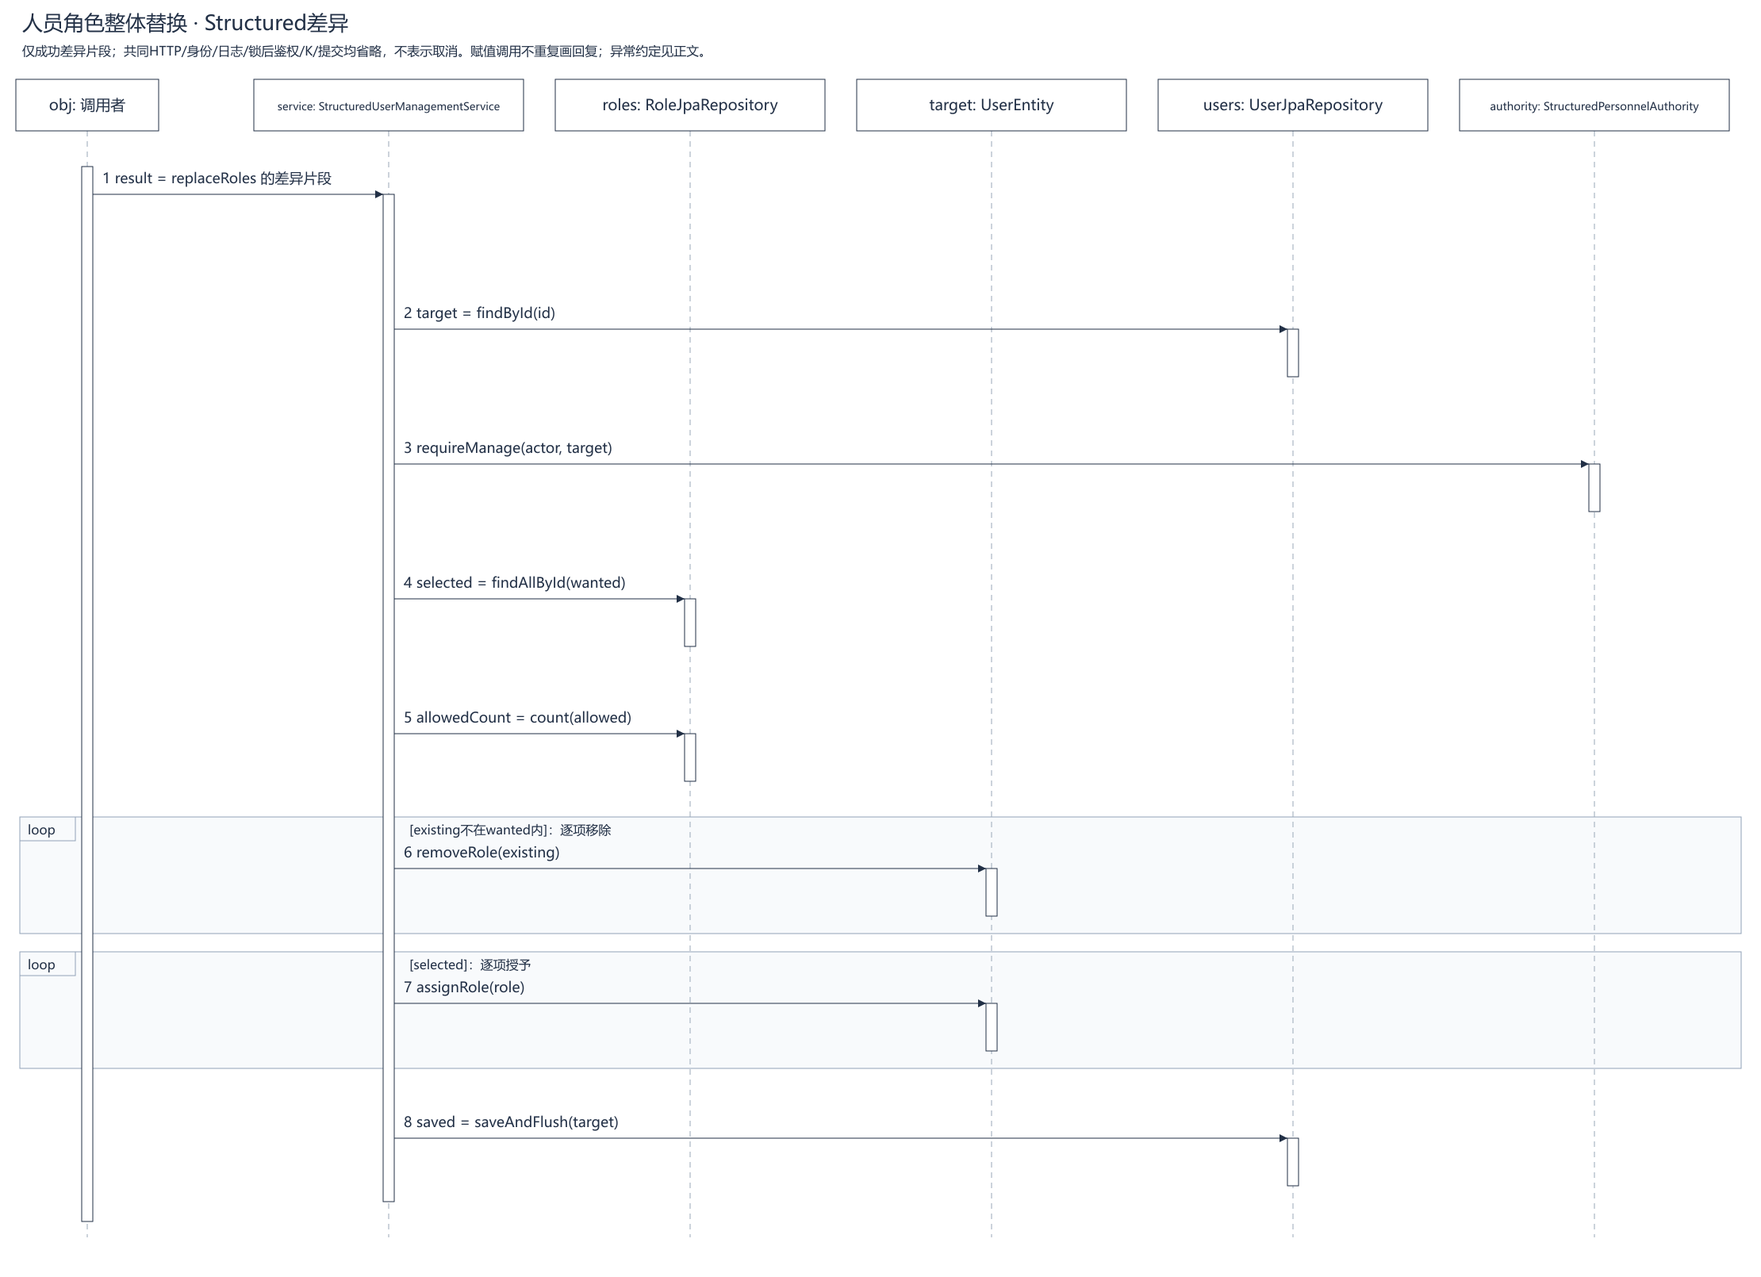
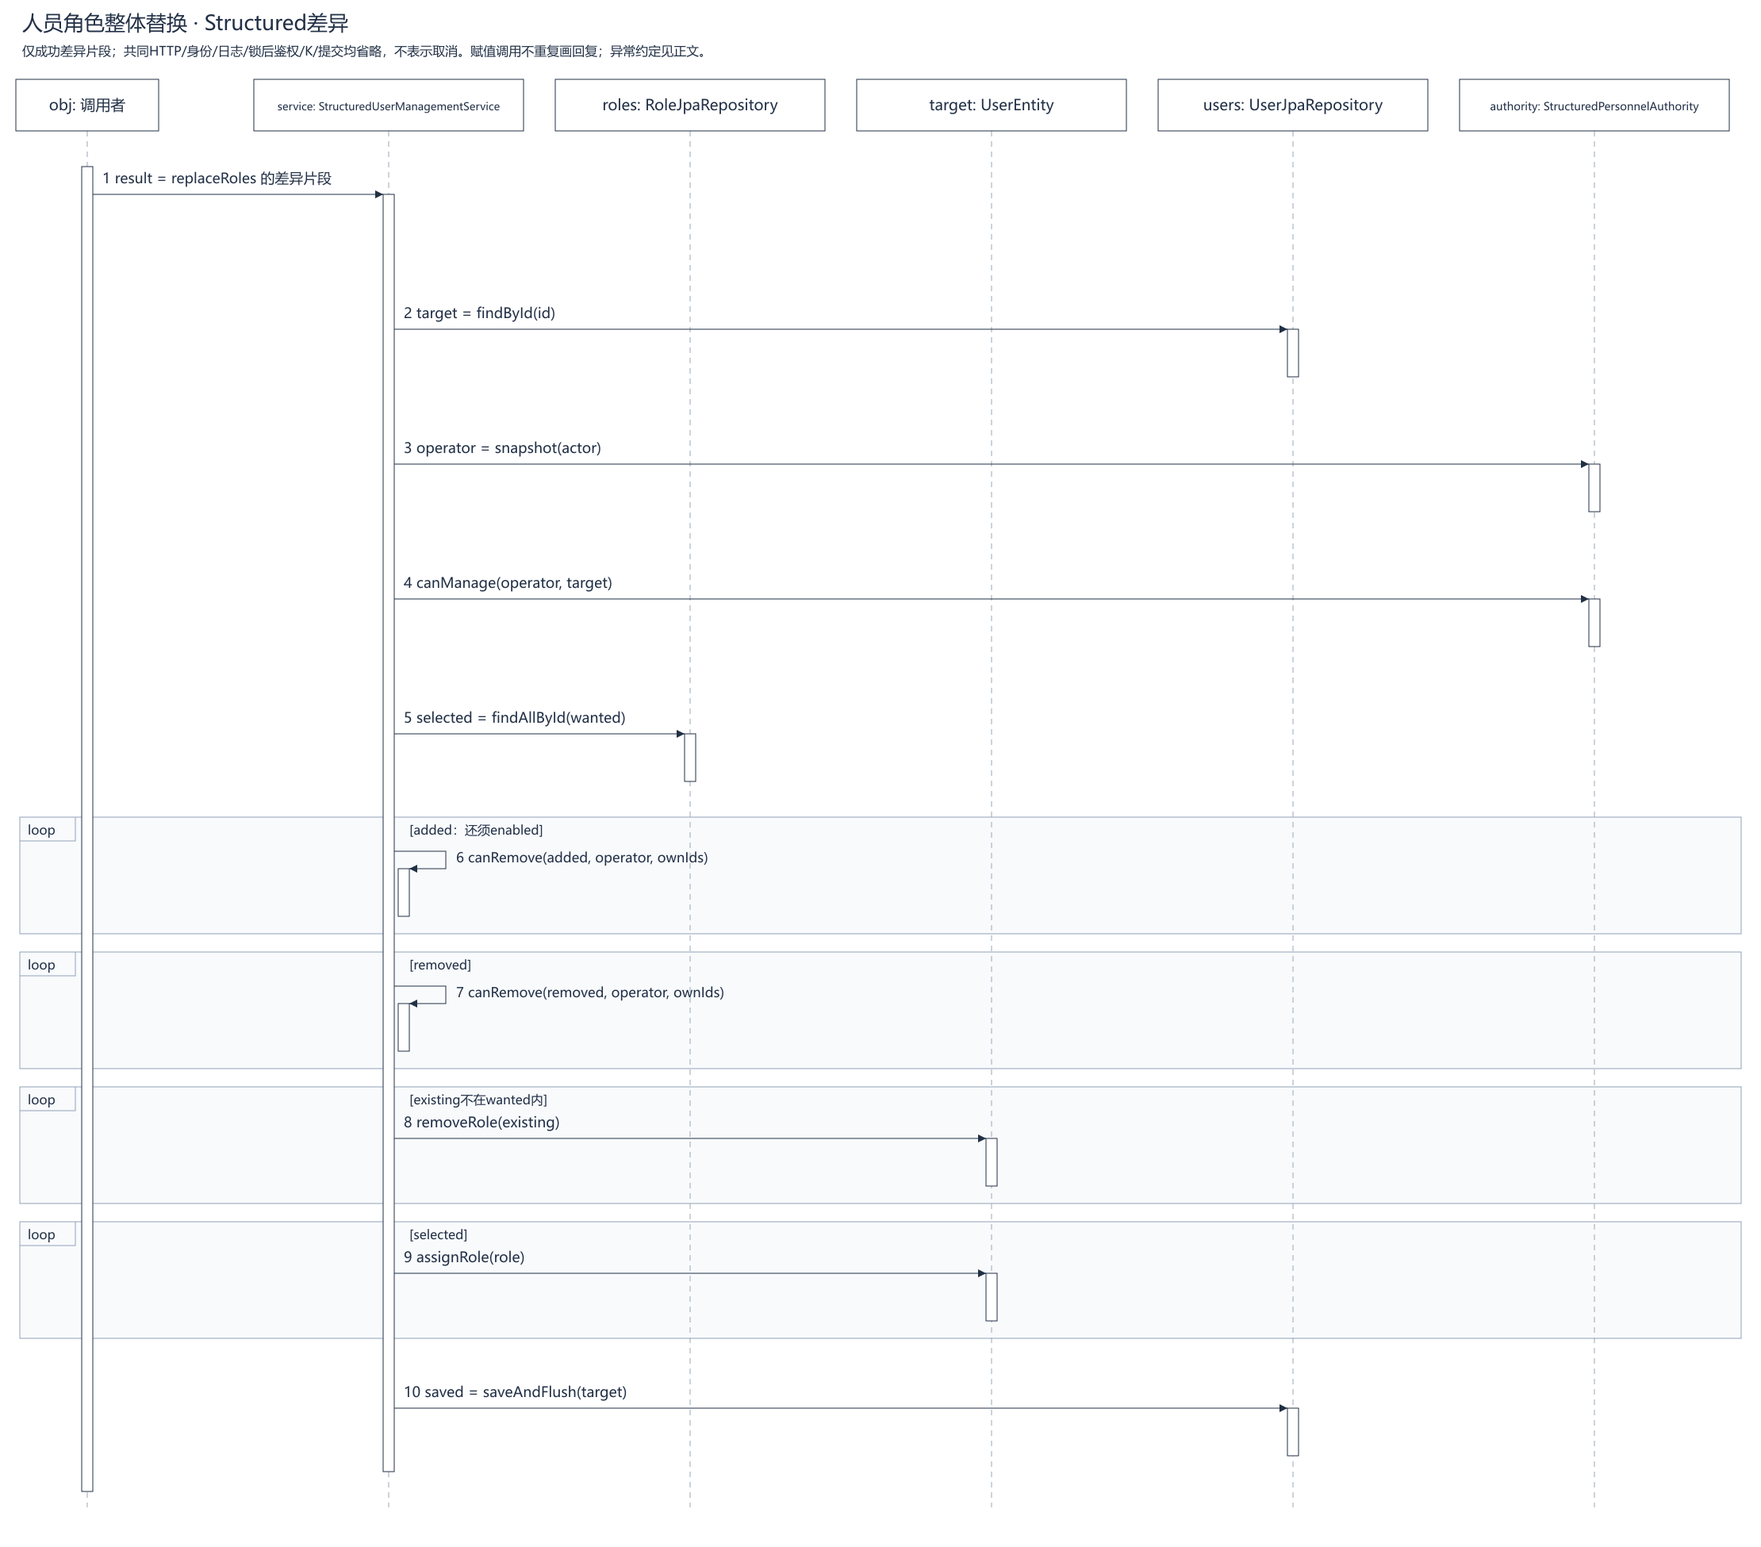
docs: align detailed design with current authorization implementation

diff --git a/docs/history/verification/design-consistency-20261121.md b/docs/history/verification/design-consistency-20261121.md
@@ -1,0 +1,40 @@
+# 详设与当前实现的一致性核对
+
+核对日期：2026-11-20—21。业务源码基线为`614a0c4a4cb82889eaad2bb2bde910edfce885c1`，main为`717345f`，课程接入草稿PR #38尚未合并。本轮由用户要求核对旧详设PDF、修订现行docs并制作课堂汇报；不新增业务实现，不部署、不合并main、不关闭T14/T15、不向Apifox写入。
+
+## 输入与取值依据
+
+- 用户旧详设PDF为91页，与本地保留的用户最终Word源对应PDF的SHA-256一致。从该Word副本修订，保留原版式、实际成员学号、概要追溯编号及八章结构，原件不覆盖。
+- 作业说明约束类、方法级正常/异常协作、算法、数据结构、数据库、接口、安全、非功能及需求追溯。课堂汇报建议采用15页主讲、18分钟讲解和2分钟缓冲，附录不计入主讲。
+- 当前需求以R01—R30、Java实际类型与方法、首次SQL、OpenAPI YAML为依据。老师项目仍只作为约定职责的组织/框架及真实课程协议来源，不把来源缺口补写成已实现功能。
+
+## 修订结果
+
+| 原不一致 | 当前表述与处理 |
+| --- | --- |
+| 正式目录仅RBAC、M10不适用 | 目录读取数据库登记事实，默认初始化仍只登记RBAC；M10展开通用应用身份，课程独立配置接入 |
+| 自定义角色冻结整个人员、每个已有角色重新授予 | 共同根锁后读取现有集合，只验实际新增/删除；锁定旧项可原样保留，停用/调动沿人员级别及范围规则 |
+| 管理员人员保护例外不明确 | 可信根直属有效五级管理员可互改及自改，仍需实际API、范围、角色子集和写后单人完整K |
+| 角色仅本系统选权、Permission只有菜单/按钮 | 角色可跨已登记应用选权；Permission类型为MENU/BUTTON/API，Permission—API映射仍同应用 |
+| 29项接口、缺少通用身份字段与lockedRoleIds | 33操作、27路径、66 Schema；补4项应用身份操作、5个协议Schema、锁定项与查人安全整数/日志语义 |
+| 领域对象保存纯ID、角色/权限方法名与代码不符 | 说明实际领域record快照集合，操作目录按当前Java提取；修正人员、目录与授权图，新增通用身份图源 |
+| 老师课程第三方接口不适用或没有限制 | 明确独立本地身份/审计支撑、三项structured修复，以及5个缺失端点、个人制批改等来源缺口 |
+| 文档当前状态仍停在阶段5或暂缓课程 | 保留历史日期和证据，增加当前main/PR分支导航，不用新文档覆盖历史运行成绩 |
+
+OpenAPI仅修正3处已有人员规则说明：`GET /api/users/{id}/assignable-roles`、`PATCH /api/users/{id}/status`、`PUT /api/users/{id}/department`。与基线递归比较后，除description外的契约结构完全相同，不改变方法、路径、参数、Schema、状态或认证配置。
+
+## 本轮实际检查
+
+- YAML和JSON解析后的对象完全一致；33操作、27路径、66 Schema逐项计数。
+- 首次SQL12表66字段与PPT附录字段名、物理类型、可空性逐项核对；29项管理路由与契约集合完全相同，4项应用身份路径另列；R01—R30全部进入追溯附录。
+- 从260份当前Java源文件提取314个类型，更新实际签名及详设操作目录；详设配套33份PlantUML均有同源SVG/PNG。前端编辑器补充实际`locked`状态与锁定交互，保留真实方法。
+- 项目现有UML生成器重新生成并通过源锚点、类框、连线、顺序片段和执行条检查；通用身份补充图保留可编辑源与生成说明。
+- 详设与讲稿经本机Word导出，再用文档技能的`render_docx.py`接入原生PDF渲染逐页检查；PPT经本机PowerPoint打开并导出31页图片复核。演示PDF由该原生渲染预览装订。
+- PPT为15页主讲及16页评阅资料附录。用户后续要求直接照页面朗读，因此将完整约5512字符讲解置于主讲页面，另附同版逐页讲稿和31页备注。主讲文字与最终PPTX可见文本逐字核对一致；14张资料表为原生PowerPoint表格。
+- ppt-master完整31页最终检查通过，硬错误0；保留的建议项为显式继承样式、独立文本框和局部轻微估算边界，不影响实际PowerPoint复核结果。所有相对文档链接核对通过。
+
+本轮没有更改backend/frontend生产行为，也未重新执行后端、真实HTTP或浏览器业务回归。此前各195项后端、structured141/ddd142次HTTP及各27项浏览器等成绩仍仅属于[614a0c4原验证记录](course-integration-generic.md)，不能作为本次或未来业务修改的新成绩。
+
+## 交付与保留
+
+修订PDF、可编辑Word、PPTX、演示预览PDF、逐页讲稿与同版UML/SQL/OpenAPI源包在本地交付目录，按协作规则不把运行产物或用户文档二进制提交Git。正式docs、契约说明和可编辑图源随任务分支审核。所有原Excel、用户原件、老师原目录、原库及历史日志保持原样。

diff --git a/docs/requirements/sources.md b/docs/requirements/sources.md
@@ -97,12 +97,12 @@ ER图应使用标准符号并只表达核心对象。User、Role、Permission及
 | 运行时授权 | 依据实际有效链及本人部门子树，不按岗位/角色名放行；完整K按同一启用根用户判断 | [API业务约束](../api-contract.md) |
 | 实时鉴权与日志补充（2026-11-12） | 用户确认先明确：撤权提交后原身份的新请求立即按最新有效链判断；日志明确事件/主体/目标/结果/原因/追踪信息、筛选及同快照total，后续有调整再改 | [需求3.1—3.2](../requirements.md#31-实时鉴权与撤权生效r08r09r12r15) |
 | 两套RBAC实现 | 同仓库同应用，共享API、表结构及前端，structured与ddd可通过互斥配置选择 | [后端设计](../backend-design.md) |
-| 课程系统 | 指老师Gitee上的course-project-mgt；等老师进一步要求，当前不实施课程接入或T14/T15 | [开发计划](../development-plan.md) |
+| 课程系统 | 早期决定暂缓；2026-11-20已按R29完成独立本地接入，T14/T15仍open，不据联调结果自动关闭 | [开发计划](../development-plan.md) |
 | 文档阶段 | 2026-11-13用户完成审核并授权合入PR #29，历史清单保留 | [审核指南](../history/documentation/docs-cleanup.md) |
 | 当前授权（2026-11-13） | 整理结构化代码/测试、按需求编号命名、确定用例/基础设施边界并修复格式/CloneFactory/职责；DDD后续实现，部署待新增服务器方案 | [代码归类](../backend-design.md#3-包结构) |
 | 第三阶段后续确认（2026-11-13） | 部门支持局部下级增删改名，无层级调整；本人/同级/上级人员只读；体现原Excel其他系统矩阵与按系统配置；先迭代离线原型，满意后统一前后端 | [需求R23—R28](../requirements.md)、[原型记录](../history/design-decisions/prototype.md) |
 | 第四轮六点澄清（2026-11-13） | 部门类型限制；全部仅为同行操作并集；删除角色模板套用；区分账号与角色状态；18系统仅能力展示且API空态正确，不在RBAC实现其业务API，未来仅课程管理系统实际接入 | [需求R24/R26/R28](../requirements.md)、[第四轮记录](../history/design-decisions/prototype.md) |
-| 阶段5交付及当前进度（更新于2026-11-18） | 用户批准PR #34合入main（e521f97），包含双实现、审核修复及CloneFactory专项核对；阶段6剩余UI复验，课程接入和服务器部署仍待后续要求 | [开发计划](../development-plan.md)、[阶段5验收](../testing-acceptance.md#阶段5-交接复核2026-11-17) |
+| 阶段5交付时的历史进度（2026-11-18） | 用户批准PR #34合入main（e521f97），包含双实现、审核修复及CloneFactory专项核对；阶段6剩余UI复验，课程接入和服务器部署仍待后续要求 | [开发计划](../development-plan.md)、[阶段5验收](../testing-acceptance.md#阶段5-交接复核2026-11-17) |
 
 ## 3. 参考项目的使用边界
 

diff --git a/docs/README.md b/docs/README.md
@@ -4,6 +4,8 @@
 
 阶段5双实现已随[PR #34](https://github.com/minxuanbo/ooad-course-project/pull/34)合入main（e521f97）。从[本地复现](reproduction.md)运行当前基线；阶段6的浏览器结果见[测试验收](testing-acceptance.md)及[两策略对照](history/verification/stage6-ddd.md)。
 
+2026-11-21当前状态：main为717345f，通用课程接入的源码基线为614a0c4（草稿PR #38尚未合并）。详设、现行文档与接口说明的核对范围及本轮静态检查见[设计一致性记录](history/verification/design-consistency-20261121.md)，不以文档修订重记历史运行成绩。
+
 | 文档                                                                                                             | 内容                                                                    |
 | ---------------------------------------------------------------------------------------------------------------- | ----------------------------------------------------------------------- |
 | [需求说明](requirements.md)、[来源](requirements/sources.md)                                                     | 范围、统一业务规则、原件及确认依据                                      |
@@ -13,7 +15,7 @@
 | [前端设计](frontend-design.md)                                                                                   | Vue页面、组件、权限能力、状态、交互与错误处理                           |
 | [API映射](api-map.md)、[业务契约](api-contract.md)、[OpenAPI](../api/openapi.yaml)                               | 页面/操作索引、Schema外语义及唯一字段规范                               |
 | [首次初始化](initialization.md)                                                                                  | 原件转换、五角色、来源、整批事务与重复执行保护                          |
-| [课程接入](course-integration.md)、[课程补丁](../integrations/course/README.md) | 老师现有身份协议、两个系统的本地配置、最小名单校验补丁及验证范围 |
+| [课程接入](course-integration.md)、[课程补丁](../integrations/course/README.md) | 老师现有身份协议、两个系统的本地配置、三项structured业务修复、独立身份/审计支撑及来源功能限制 |
 | [测试与验收](testing-acceptance.md)                                                                              | 需求矩阵、隔离、验证方案及实际结果引用                                  |
 | [本地复现](reproduction.md)、[后端运行](../backend/README.md)、[前端运行](../frontend/README.md)                 | 依赖、全新库初始化、命令与端口                                          |
 | [开发计划](development-plan.md)、[协作](../CONTRIBUTING.md)                                                      | 实施顺序和分支约定                                                      |

diff --git a/docs/frontend-design.md b/docs/frontend-design.md
@@ -41,7 +41,7 @@ account按字符串保留前导零、仅trim首尾；password不trim。工号和
 
 授权抽屉先读取当前角色，再独立分页查询可授予候选；当前已有但不可新授的角色须保持完整显示，不能用当前候选页替代已选全集。跨页选择保持草稿，取消不写库，确认才PUT整体ids；[]为清空，须明确确认。失败保留可理解的草稿与错误，不显示部分成功；遇并发冲突可重新加载核对。
 
-候选同时受R23级别上限、全部有效Permission子集和部门范围约束。项目经理的级别上限为项目经理/普通员工，但候选不保证两者齐全；原型中的业务矩阵不逐级包含；正式系统默认比较RBAC、显式接入后比较RBAC和课程有效权限，初始三种局部管理角色的权限集合相同，后续手工撤权仍可能缩小候选。缺少目标角色任一有效权限即不可授。部门经理也不会因管理级别取得公司领导资格。名称变化不改变级别，自定义角色默认仅管理员可授。已存在但当前不可再授的角色不能被静默删掉，提交时须重新整组校验。
+候选同时受R23级别上限、全部有效Permission子集和部门范围约束。项目经理的级别上限为项目经理/普通员工，但候选不保证两者齐全；原型中的业务矩阵不逐级包含；正式系统比较数据库已登记应用的全部有效权限，默认首次初始化仅有RBAC，初始三种局部管理角色的权限集合相同，后续手工撤权仍可能缩小候选。缺少目标角色任一有效权限即不可授。部门经理也不会因管理级别取得公司领导资格。名称变化不改变级别，自定义角色默认仅管理员可授。已存在但当前不可再授的角色不能被静默删掉，提交时在锁后重读并计算新增/删除差集，仅变化项重新验权；lockedRoleIds锁定的现有项可原样保留，自定义角色不冻结人员停用或调动。
 
 停用对话框只提交enabled:false，不提供本轮未约定的恢复、创建或删除人员。调动选项来自可管理部门树，确认显示原/目标部门；后端拒绝双范围越界，前端不通过调整隐藏字段绕过。成功后重新读取行状态与授权，调动不自动按新岗位改角色。
 

diff --git a/docs/reproduction.md b/docs/reproduction.md
@@ -1,6 +1,6 @@
 # 组员本地复现与核对
 
-更新至2026-11-18：[PR #34](https://github.com/minxuanbo/ooad-course-project/pull/34)已合入main（e521f97），当前main包含structured/ddd双实现，文件树与验收提交83dbf17一致。组员统一从main获取并记录实际提交号；需要固定本轮验收版本时检出e521f97。只通过Git获取项目，不复制其他人的`.local`、数据库文件、node_modules、口令或预检CSV。
+当前基线导航（2026-11-20）：main为717345f，课程接入在codex/course-local-integration的614a0c4（草稿PR #38，尚未合入main）。课程场景请按本文末节及接入说明检出对应分支。以下万人库复现保留阶段5来源：[PR #34](https://github.com/minxuanbo/ooad-course-project/pull/34)已合入main（e521f97），当时main已包含structured/ddd双实现，该阶段文件树与验收提交83dbf17一致。组员统一从main获取并记录实际提交号；需要固定本轮验收版本时检出e521f97。只通过Git获取项目，不复制其他人的`.local`、数据库文件、node_modules、口令或预检CSV。
 
 ## 1. 获取正确版本及工具
 

diff --git a/docs/requirements.md b/docs/requirements.md
@@ -1,6 +1,6 @@
 # 统一权限管理系统需求说明
 
-版本：1.9；更新日期：2026-11-19。本文是当前业务需求入口，描述应满足的行为，不作为实现完成声明。R23—R27由获批原型进入阶段4正式接口及结构化实现；R28按用户最新澄清仅保留原型演示，默认目录为RBAC，R29通过通用应用身份协议接入课程系统；18系统演示不变。实现及验证状态另见验收记录。
+版本：1.9；文档核对日期：2026-11-21。本文是当前业务需求入口，描述应满足的行为，不作为实现完成声明。R23—R27由获批原型进入阶段4正式接口及双策略实现；R28保留18系统离线原型边界，默认首次初始化仅登记RBAC，正式目录按数据库登记事实读取；R29定义通用应用身份与课程独立接入，R30统一中文显示名并保持稳定编码。实现及验证状态另见验收记录，本轮核对不新增业务要求。
 
 ## 1. 来源与适用范围
 

diff --git a/docs/structured-ui-acceptance.md b/docs/structured-ui-acceptance.md
@@ -1,5 +1,7 @@
 # structured UI复验（2026-11-19）
 
+本文各项成绩保留其记录日期与源码基线。后续两策略阶段6结果见[阶段6复验](history/verification/stage6-ddd.md)，通用课程接入的614a0c4版本证据见[本轮记录](history/verification/course-integration-generic.md)。2026-11-20文档核对未重新执行这些运行回归。
+
 本轮完成用户指定的structured模式UI复验与修复。起点为main `9c95e7a`，修复位于`codex/structured-ui-acceptance`；交付前合入远端main `4744f5f`，在合并提交`00186e5`上重新验证。用户于2026-11-19明确批准[PR #36](https://github.com/minxuanbo/ooad-course-project/pull/36)合入main。阶段6的ddd同项复验仍未执行，不将共用前端结果视为ddd业务链通过。
 
 ## 1. 环境与结果

diff --git a/docs/testing-acceptance.md b/docs/testing-acceptance.md
@@ -1,5 +1,7 @@
 # 测试与验收说明
 
+本文各项成绩保留其记录日期与源码基线。后续两策略阶段6结果见[阶段6复验](history/verification/stage6-ddd.md)，通用课程接入的614a0c4版本证据见[本轮记录](history/verification/course-integration-generic.md)。2026-11-20文档核对未重新执行这些运行回归。
+
 本文定义验证对象、证据及当前边界；设计、参考原型和旧报告不作为新阶段完成证据。
 
 ## 1. 当前状态

diff --git a/docs/database/physical-model.md b/docs/database/physical-model.md
@@ -96,7 +96,7 @@ MySQL8.4、InnoDB、utf8mb4/utf8mb4_0900_bin。实体BIGINT主键自增，对外
 - `CONSTRAINT uk_api_system_method_path UNIQUE (system_id, http_method, path_template)`
 - `CONSTRAINT fk_api_system FOREIGN KEY (system_id) REFERENCES systems(id)`
 
-## 7. permissions：菜单/按钮权限
+## 7. permissions：菜单、按钮与API权限
 
 | 字段 | SQL类型 | 可空 | 含义/生成方式 |
 | --- | --- | --- | --- |
